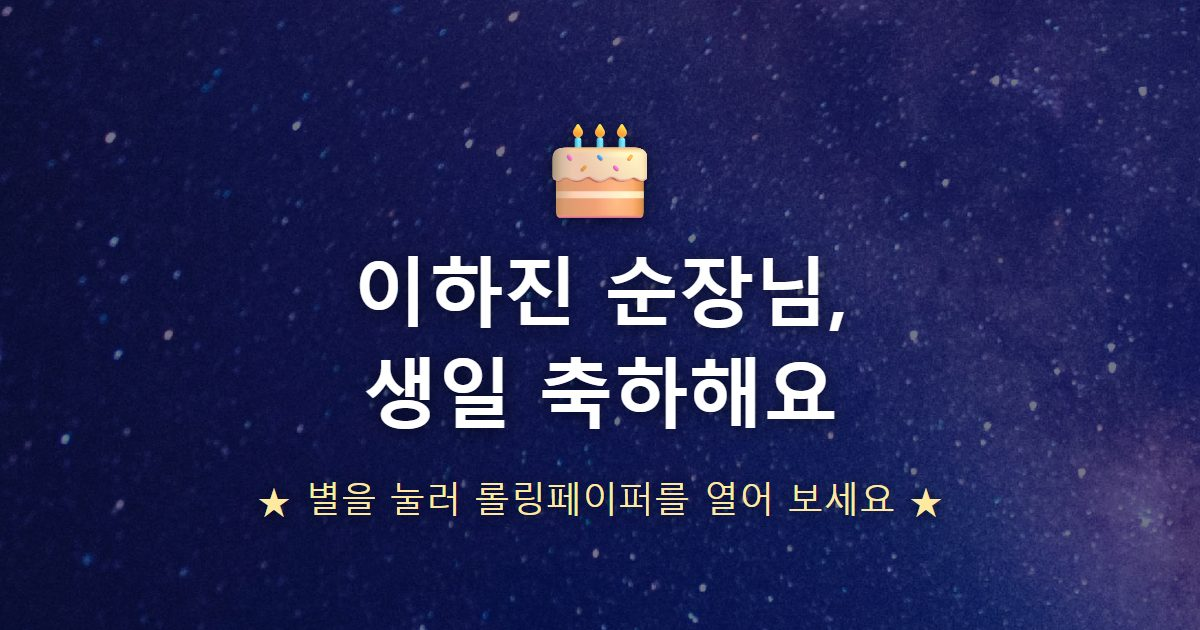
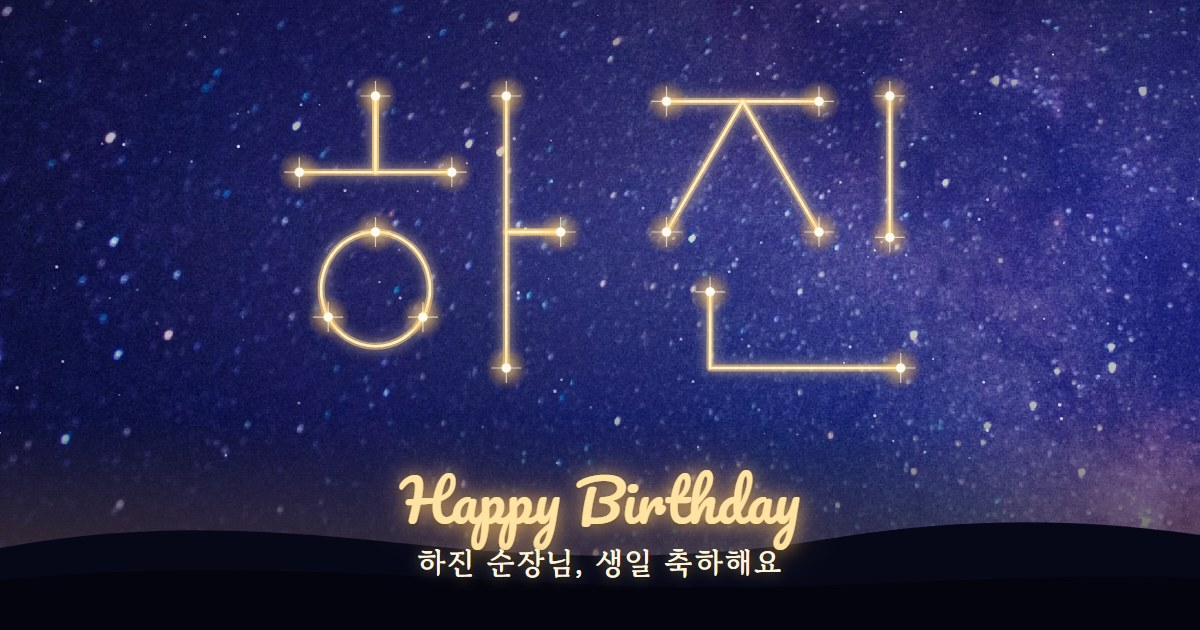
Redesign link preview: constellation OG image and richer meta tags

diff --git a/index.html b/index.html
@@ -7,16 +7,21 @@
     <meta name="theme-color" content="#0b1030" />
     <meta name="color-scheme" content="dark" />
     <!-- 링크 공유 미리보기(카카오톡 등). og:image·og:url 은 절대 주소여야 한다. 바꿀 땐 이 블록만 고친다. -->
-    <meta name="description" content="밤하늘의 별을 눌러 친구들의 롤링페이퍼를 열어 보세요." />
+    <meta name="description" content="밤하늘의 별 17개에 친구들의 롤링페이퍼가 숨어 있어요. 별을 눌러 열어 보세요 ✨" />
     <meta property="og:type" content="website" />
     <meta property="og:locale" content="ko_KR" />
+    <meta property="og:site_name" content="하진 순장님 생일 축하" />
     <meta property="og:title" content="이하진 순장님, 생일 축하해요 🎂" />
-    <meta property="og:description" content="밤하늘의 별을 눌러 친구들의 롤링페이퍼를 열어 보세요." />
+    <meta property="og:description" content="밤하늘의 별 17개에 친구들의 롤링페이퍼가 숨어 있어요. 별을 눌러 열어 보세요 ✨" />
     <meta property="og:url" content="https://deopoler.github.io/birthday-website/" />
-    <meta property="og:image" content="https://deopoler.github.io/birthday-website/og-image.jpg" />
+    <meta property="og:image" content="https://deopoler.github.io/birthday-website/og-image.jpg?v=2" />
     <meta property="og:image:width" content="1200" />
     <meta property="og:image:height" content="630" />
+    <meta property="og:image:alt" content="밤하늘에 금빛 별자리로 그린 '하진'과 Happy Birthday 문구" />
     <meta name="twitter:card" content="summary_large_image" />
+    <meta name="twitter:title" content="이하진 순장님, 생일 축하해요 🎂" />
+    <meta name="twitter:description" content="밤하늘의 별 17개에 친구들의 롤링페이퍼가 숨어 있어요. 별을 눌러 열어 보세요 ✨" />
+    <meta name="twitter:image" content="https://deopoler.github.io/birthday-website/og-image.jpg?v=2" />
     <meta name="viewport" content="width=device-width, initial-scale=1.0, viewport-fit=cover" />
     <!-- 봉투 위 손글씨(To. 하진 순장님께)와 편지 속 HAPPY BIRTHDAY! 에만 쓰는 글꼴: 필요한 글자만 내려받는다 -->
     <link rel="preconnect" href="https://fonts.googleapis.com" />
